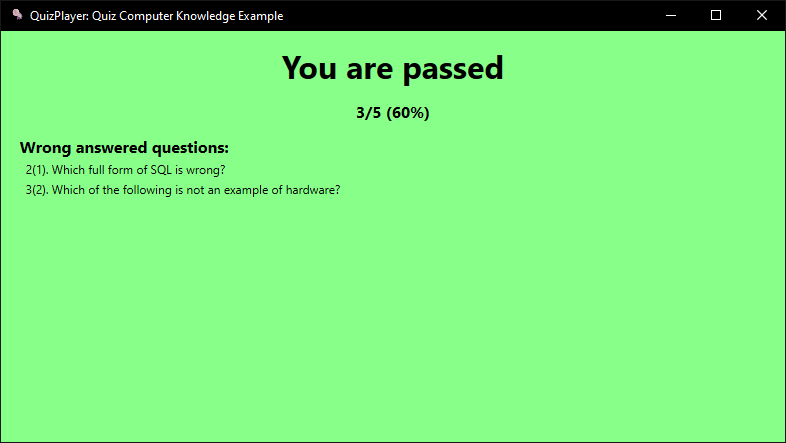
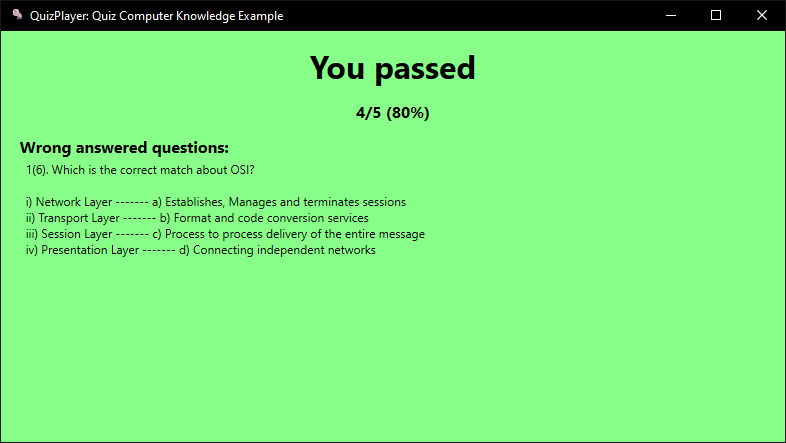
changed answer coloring, but probably not final. changing result text

Changed region(s): [[0.0305, 0.3521, 0.5496, 0.5869], [0.3359, 0.1174, 0.6412, 0.2054], [0.4885, 0.2348, 0.5191, 0.2641]]

diff --git a/QuizPlayer/QuizViewModel.cs b/QuizPlayer/QuizViewModel.cs
@@ -86,7 +86,7 @@ namespace QuizPlayer
     public int RightAnsweredPercent => QuizModel.RightAnsweredPercent;
     public bool SuccessPassedQuiz => QuizModel.SuccessPassedQuiz;
     public bool AllRight => QuestionCount == RightAnsweredQuestionCount;
-    public string YouResultClassify => SuccessPassedQuiz ? "You are passed" : "You are failed";
+    public string YouResultClassify => SuccessPassedQuiz ? "You passed" : "You failed";
     public string TestResults => $"{RightAnsweredQuestionCount}/{QuestionCount} ({RightAnsweredPercent}%)";
     public IEnumerable<string> WrongQuestionList =>
       QuizModel

diff --git a/README.md b/README.md
@@ -15,3 +15,4 @@ Quiz questions source in quiz.json file:
 ![This is an image](/assets/quizjson.png)
 
 Example of [quiz.json file](QuizPlayer/quiz.json)
+
